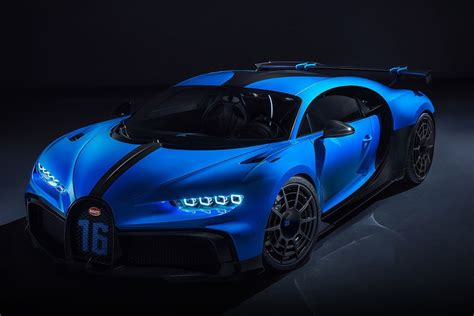
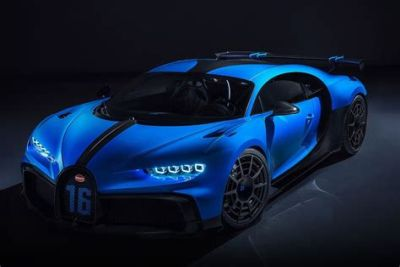
Updated all static image files, compressed them and resized them. Changed all heights and widths in accordance to the images new values.

diff --git a/website/templates/faq.html b/website/templates/faq.html
@@ -1,81 +1,84 @@
 {% extends "base.html" %} {% block title %}Home{% endblock %} {%block content %}
 
-<h1 align="center">FAQ's</h1>
-<hr />
-<article>
-  <button class="accordian">What is the top speed of the Chiron?</button>
-  <div class="panel">
-    <p>The top speed of the Chiron is 276mph.</p>
-  </div>
-
-  <button class="accordian">
-    What's the 0-60mph capability of the Chiron?
-  </button>
-  <div class="panel">
-    <p>0-60 mph in 2.6 seconds.</p>
-  </div>
-
-  <button class="accordian">
-    What is the 0-60mph capability of the Veyron?
-  </button>
-  <div class="panel">
-    <p>0-60mph in 3.2 seconds.</p>
-  </div>
-
-  <button class="accordian">
-    Is the Chiron a production car or a concept?
-  </button>
-  <div class="panel">
-    <p>The Chiron is a production vehicle, and not a concept car.</p>
-  </div>
-
-  <button class="accordian">
-    Is the Veyron a production car or a concept?
-  </button>
-  <div class="panel">
-    <p>The Veyron is a production vehicle, and not a concept car.</p>
-  </div>
-
-  <button class="accordian">Why was the Veyron created?</button>
-  <div class="panel">
-    <p>To beat the land speed record of the McClaren F1.</p>
-  </div>
-
-  <button class="accordian">Is the customer service line 24 hours?</button>
-  <div class="panel">
-    <p>
-      We run a 24 hour customer service, and our operatives are highly trained
-      and are willing to deal with enquiries not matter the time of day.
-    </p>
-  </div>
-
-  <button class="accordian">What's the refund policy?</button>
-  <div class="panel">
-    <p>
-      Full monies will be refunded within 90 days, as long as the refund is
-      in-line with our refund policy.
-    </p>
-  </div>
-
-  <button class="accordian">How long will my car take to build?</button>
-  <div class="panel">
-    <p>
-      Customers should have their chosen build completed within 90 days upon
-      receipt of invoice.
-    </p>
-  </div>
-
-  <button class="accordian">Where's my nearest Bugatti garage?</button>
-  <div class="panel">
-    <p>
-      We do not have garages per se, but a valet service. Once booked we will
-      fly our operatives out to you and we'll arrange for your car to be picked
-      up and taken to the nearest centre. Even if this requires your car to be
-      picked by and dropped to us via air. All costs are fully inclusive of
-      repair and transportation, along with operative food, travel and
-      accommodation costs included.
-    </p>
-  </div>
+<section id="faq">
+  <h1 align="center">FAQ's</h1>
   <hr />
-  {% endblock %}
-</article>
+  <article>
+    <button class="accordian">What is the top speed of the Chiron?</button>
+    <div class="panel">
+      <p>The top speed of the Chiron is 276mph.</p>
+    </div>
+
+    <button class="accordian">
+      What's the 0-60mph capability of the Chiron?
+    </button>
+    <div class="panel">
+      <p>0-60 mph in 2.6 seconds.</p>
+    </div>
+
+    <button class="accordian">
+      What is the 0-60mph capability of the Veyron?
+    </button>
+    <div class="panel">
+      <p>0-60mph in 3.2 seconds.</p>
+    </div>
+
+    <button class="accordian">
+      Is the Chiron a production car or a concept?
+    </button>
+    <div class="panel">
+      <p>The Chiron is a production vehicle, and not a concept car.</p>
+    </div>
+
+    <button class="accordian">
+      Is the Veyron a production car or a concept?
+    </button>
+    <div class="panel">
+      <p>The Veyron is a production vehicle, and not a concept car.</p>
+    </div>
+
+    <button class="accordian">Why was the Veyron created?</button>
+    <div class="panel">
+      <p>To beat the land speed record of the McClaren F1.</p>
+    </div>
+
+    <button class="accordian">Is the customer service line 24 hours?</button>
+    <div class="panel">
+      <p>
+        We run a 24 hour customer service, and our operatives are highly trained
+        and are willing to deal with enquiries not matter the time of day.
+      </p>
+    </div>
+
+    <button class="accordian">What's the refund policy?</button>
+    <div class="panel">
+      <p>
+        Full monies will be refunded within 90 days, as long as the refund is
+        in-line with our refund policy.
+      </p>
+    </div>
+
+    <button class="accordian">How long will my car take to build?</button>
+    <div class="panel">
+      <p>
+        Customers should have their chosen build completed within 90 days upon
+        receipt of invoice.
+      </p>
+    </div>
+
+    <button class="accordian">Where's my nearest Bugatti garage?</button>
+    <div class="panel">
+      <p>
+        We do not have garages per se, but a valet service. Once booked we will
+        fly our operatives out to you and we'll arrange for your car to be
+        picked up and taken to the nearest centre. Even if this requires your
+        car to be picked by and dropped to us via air. All costs are fully
+        inclusive of repair and transportation, along with operative food,
+        travel and accommodation costs included.
+      </p>
+    </div>
+    <hr />
+  </article>
+</section>
+
+{% endblock %}

diff --git a/website/templates/about.html b/website/templates/about.html
@@ -2,23 +2,26 @@
 
 <div>
   <!--Image syntax-->
-  <figure>
-    <img
-      src="/static/ettori-bugatti.png"
-      width="200px"
-      height="200px"
-      alt="Ettori Bugatti's picture" />
-    <figcaption>Ettori Bugatti (Founder)</figcaption>
-  </figure>
+  <section id="about">
+    <figure>
+      <img
+        src="/static/ettori-bugatti.png"
+        width="400px"
+        height="267px"
+        alt="Ettori Bugatti's picture"
+        loading="lazy" />
+      <figcaption>Ettori Bugatti (Founder)</figcaption>
+    </figure>
 
-  Ettori Bugatti was the legendary founder of the Bugatti company and the
-  designer of the most successful race cars and luxurious vehicles of his day.
-  Known as a major pioneer within automotive engineering and his name has lived
-  on, beyond his passing to produce automobiles that would have made him proud
-  had he lived on. Modern day Bugatti's have walked the fine line between
-  between speed and luxury. Until the Veyron and Chiron it was safe to say not
-  many automobiles that focused on speed managed to incorporate luxury in their
-  models also.
+    Ettori Bugatti was the legendary founder of the Bugatti company and the
+    designer of the most successful race cars and luxurious vehicles of his day.
+    Known as a major pioneer within automotive engineering and his name has
+    lived on, beyond his passing to produce automobiles that would have made him
+    proud had he lived on. Modern day Bugatti's have walked the fine line
+    between between speed and luxury. Until the Veyron and Chiron it was safe to
+    say not many automobiles that focused on speed managed to incorporate luxury
+    in their models also.
+  </section>
 </div>
 
 {% endblock %}

diff --git a/website/templates/conversions.html b/website/templates/conversions.html
@@ -1,14 +1,15 @@
 {% extends "base.html" %} {% block title %}Home{% endblock %} {%block content %}
 
 <div>
-  <section id="MPH to M/S">
+  <section id="speed">
     <!--Image syntax-->
     <figure>
       <img
         src="/static/speed-img.jpg"
-        width="200px"
-        height="200px"
-        alt="Speed" />
+        width="400px"
+        height="267px"
+        alt="Speed"
+        loading="lazy" />
       <figcaption>MPH to M/S</figcaption>
     </figure>
     <article>
@@ -25,14 +26,15 @@
 </div>
 
 <div>
-  <section id="KM/h to M/S">
+  <section id="speed">
     <!--Image syntax-->
     <figure>
       <img
         src="/static/speed-img.jpg"
-        width="200px"
-        height="200px"
-        alt="Speed" />
+        width="400px"
+        height="267px"
+        alt="Speed"
+        loading="lazy" />
       <figcaption>KM/h to M/S</figcaption>
     </figure>
 

diff --git a/website/templates/bugatti-chiron.html b/website/templates/bugatti-chiron.html
@@ -1,11 +1,16 @@
 {% extends "base.html" %} {% block title %}Home{% endblock %} {%block content %}
 
 <div>
-  <section id="Bugatti Chiron">
+  <section id="bugatti-chiron">
     <br /><br />
     <!--Image syntax-->
     <figure>
-      <img src="/static/chiron.jpg" width="200px" height="200px" alt="Chiron" />
+      <img
+        src="/static/chiron.jpg"
+        width="400px"
+        height="267px"
+        alt="Chiron"
+        loading="lazy" />
       <figcaption>Bugatti Chiron</figcaption>
       <br />
       The Bugatti Chiron is a mid-engine two-seater sports car designed and

diff --git a/website/templates/bugatti-veyron.html b/website/templates/bugatti-veyron.html
@@ -1,11 +1,16 @@
 {% extends "base.html" %} {% block title %}Home{% endblock %} {%block content %}
 
 <div>
-  <section id="Bugatti Veyron">
+  <section id="bugatti-veyron">
     <br /><br />
     <!--Image syntax-->
     <figure>
-      <img src="/static/veyron.jpg" width="200px" height="200px" alt="Veyron" />
+      <img
+        src="/static/veyron.jpg"
+        width="400px"
+        height="224px"
+        alt="Veyron"
+        loading="lazy" />
       <figcaption>Bugatti Veyron</figcaption>
       <br />
       The Bugatti Veyron EB 16.4 is a mid-engine sports car, designed and

diff --git a/website/templates/history.html b/website/templates/history.html
@@ -1,15 +1,16 @@
 {% extends "base.html" %} {% block title %}Home{% endblock %} {%block content %}
 
 <div>
-  <section id="History">
+  <section id="history">
     <br /><br />
     <!--Image syntax-->
     <figure>
       <img
         src="/static/type-13.png"
-        width="200px"
-        hegiht="200px"
-        alt="Bugatti Type 13" />
+        width="400px"
+        hegiht="267px"
+        alt="Bugatti Type 13"
+        loading="lazy" />
       <figcaption>Bugatti Type 13</figcaption>
       <br />
       The type 13 was one of the first automobiles designed and produced by

diff --git a/website/templates/purchase-form.html b/website/templates/purchase-form.html
@@ -1,0 +1,2 @@
+{% extends "base.html" %} {% block title %}Sign Up{% endblock %} {%block
+content%} {% endblock %}
